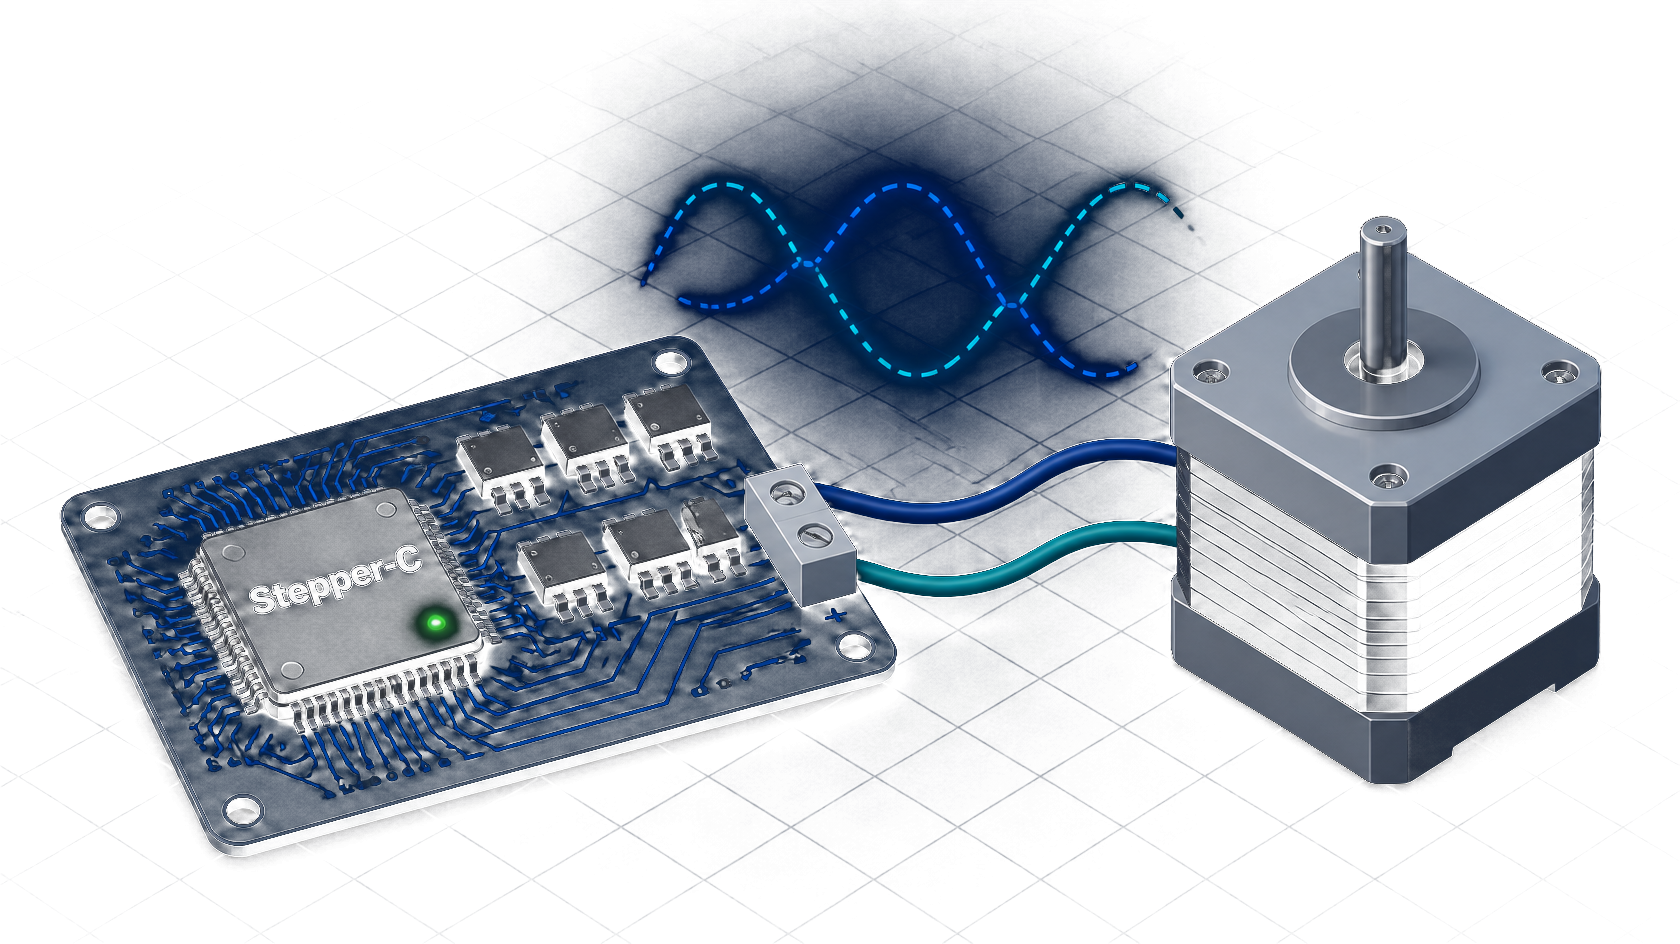
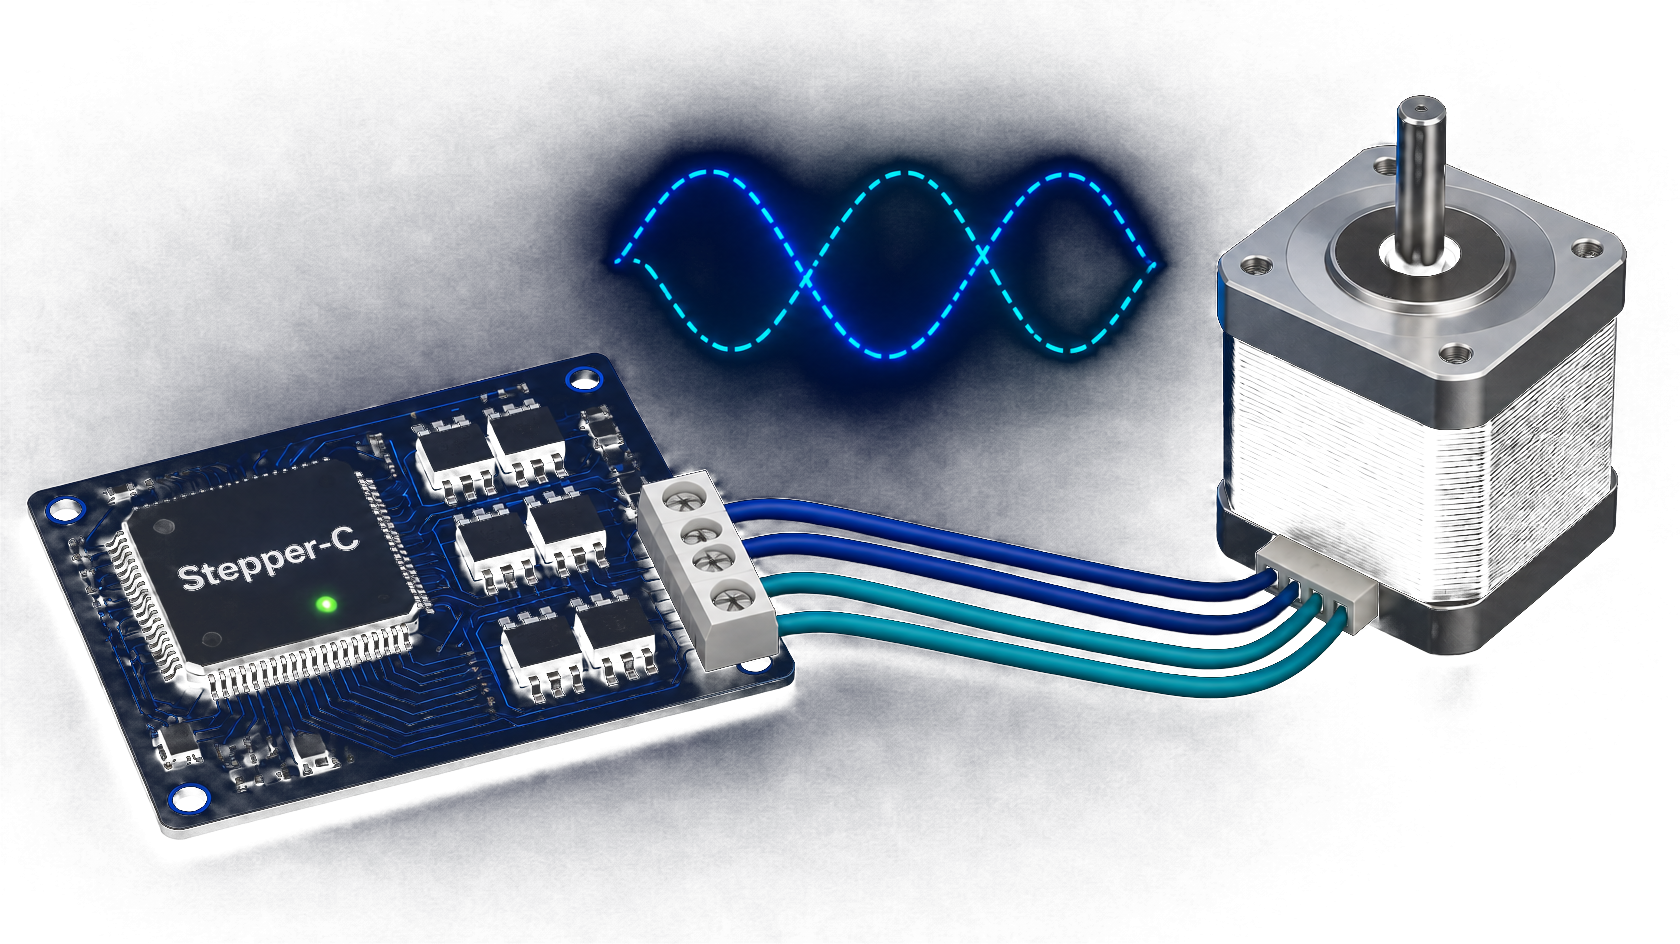
Align the project with the sfs-static-library templates
Rename the CMake presets from "[<Type>]Stepper Motor Control" to
"SSTEP[<Type>]" and update the CI workflows, VS Code tasks, README,
guide and agent skill to match. Rename the SSTEP_UNIT_TESTS option to
UNIT_TESTS and SSTEP_COMPILE_DEFINITIONS/OPTIONS to COMPILE_DEFINITIONS/
OPTIONS; move the version extraction from sstep.cmake to CMakeLists.txt.

CI: the unit test workflow and the release now run every configure
preset with "[UnitTests" in its name, read from CMakePresets.json. The
coverage report is copied out of the bracketed build folder before the
upload, and Cppcheck also gets tests/config when it exists. Doxygen is
no longer installed for the release.

Add VS Code tasks for the float backend coverage report.

Restructure two expressions in sstep_stall.c (atan2 zero vector,
direction sign) without the ternary operator; behaviour is unchanged.

Add tools/docs/hero_alpha.py, which makes the dark background of a
generated hero illustration transparent, and regenerate the hero PNGs
with it.

diff --git a/tools/docs/hero_alpha.py b/tools/docs/hero_alpha.py
@@ -1,0 +1,94 @@
+#******************************************************************************
+# Stepper-C: Stepper Motor Control Implementation
+#
+# Project:     Stepper-C - Hardware-Agnostic Stepper Motor Control Library
+# Description: Make the dark background of a raster hero illustration transparent,
+#              so that it blends into the landing page and the PDF cover.
+#
+# Author:      Anton Vynohradov
+# Email:       avynohradov@systemfromscratch.com
+#
+# License:     Apache License 2.0
+#
+# Copyright (c) 2026 Anton Vynohradov
+#
+# SPDX-License-Identifier: Apache-2.0
+#*****************************************************************************
+
+"""Turn the background of a dark hero illustration (a generated render, for example from
+Canva) into transparency.
+
+A generated image has its own near-black background. On the landing page and on the PDF
+cover it sits on a navy gradient with a blue radial glow, so its rectangle shows. This
+script keeps every pixel that differs from the background colour (the board, the device,
+the glowing signal) and fades the rest to transparent:
+
+    alpha = smoothstep(low, high, max(|R - Rb|, |G - Gb|, |B - Bb|))
+
+The background colour (Rb, Gb, Bb) is the median of the four corners unless given.
+Very dark parts of the subject become slightly transparent too; that is invisible on the
+dark backgrounds the image is made for. Only Pillow is needed (a WeasyPrint dependency).
+
+    python tools/docs/hero_alpha.py hero.jpg docs/assets/images/hero-dark.png
+    python tools/docs/hero_alpha.py hero.jpg out.png --low 4 --high 48 --preview check.png
+"""
+
+from __future__ import annotations
+
+import argparse
+import statistics
+import sys
+
+from PIL import Image, ImageChops
+
+
+def smoothstep_lut(low: int, high: int) -> list:
+    """Lookup table 0..255 -> 0..255 of smoothstep(low, high, x)."""
+    lut = []
+    for x in range(256):
+        t = min(max((x - low) / float(high - low), 0.0), 1.0)
+        lut.append(round(255 * t * t * (3 - 2 * t)))
+    return lut
+
+
+def corner_colour(im: Image.Image) -> tuple:
+    """Median colour of the four corner pixels."""
+    w, h = im.size
+    corners = [im.getpixel(p) for p in ((0, 0), (w - 1, 0), (0, h - 1), (w - 1, h - 1))]
+    return tuple(int(statistics.median(c[k] for c in corners)) for k in range(3))
+
+
+def main() -> int:
+    ap = argparse.ArgumentParser(description=__doc__.split("\n\n")[0])
+    ap.add_argument("source", help="dark illustration (JPG or PNG)")
+    ap.add_argument("output", help="PNG with a transparent background")
+    ap.add_argument("--background", help="background colour as R,G,B (default: corners)")
+    ap.add_argument("--low", type=int, default=4, help="difference that stays transparent")
+    ap.add_argument("--high", type=int, default=48, help="difference that is fully opaque")
+    ap.add_argument("--preview", help="also write the result over a lighter navy, to check")
+    args = ap.parse_args()
+    if not 0 <= args.low < args.high <= 255:
+        ap.error("need 0 <= low < high <= 255")
+
+    im = Image.open(args.source).convert("RGB")
+    bg = (tuple(int(v) for v in args.background.split(",")) if args.background
+          else corner_colour(im))
+    diff = ImageChops.difference(im, Image.new("RGB", im.size, bg))
+    r, g, b = diff.split()
+    alpha = ImageChops.lighter(ImageChops.lighter(r, g), b).point(
+        smoothstep_lut(args.low, args.high))
+    out = im.copy()
+    out.putalpha(alpha)
+    out.save(args.output, optimize=True)
+    print(f"wrote {args.output} ({im.size[0]}x{im.size[1]}, background {bg})")
+
+    if args.preview:
+        check = Image.new("RGBA", im.size, (14, 40, 80, 255))
+        check.alpha_composite(out)
+        check.convert("RGB").save(args.preview)
+        print(f"wrote {args.preview}")
+    return 0
+
+
+if __name__ == "__main__":
+    sys.exit(main())

diff --git a/src/sstep_stall.c b/src/sstep_stall.c
@@ -109,8 +109,12 @@ static sstep_angle_t atan2_turn(int32_t y, int32_t x)
     int32_t ys = y;
     int32_t pw = 1; /* 2^i */
     sstep_angle_t a = 0U;
-    uint32_t steps = ((x == 0) && (y == 0)) ? 0U : CORDIC_STEPS;
+    uint32_t steps = CORDIC_STEPS;
 
+    if ((x == 0) && (y == 0))
+    {
+        steps = 0U; /* the zero vector: angle 0 */
+    }
     if (xs < 0)
     {
         /* rotate by half a turn into the right half plane */
@@ -256,8 +260,11 @@ void sstep_stall_status(const struct sstep_ctx* m, struct sstep_status* status)
         int64_t ed = (int64_t)emf_mv(m, 0U);
         int64_t eq = (int64_t)emf_mv(m, 1U);
         /* direction of the command, or of the back-EMF at rest */
-        bool fwd = (m->vel_cmd > 0) || ((m->vel_cmd == 0) && (eq >= 0));
-        int64_t s = fwd ? 1 : -1;
+        int64_t s = 1;
+        if ((m->vel_cmd < 0) || ((m->vel_cmd == 0) && (eq < 0)))
+        {
+            s = -1;
+        }
         int64_t sq = (ed * ed) + (eq * eq);
         uint64_t mag = sstep_isqrt64((uint64_t)sq);
         /* speed = |e| / Ke [microsteps/s] = |e| Ns M / (2 pi Ke) */

diff --git a/tools/docs/diagrams.py b/tools/docs/diagrams.py
@@ -13,7 +13,7 @@
 # SPDX-License-Identifier: Apache-2.0
 #*****************************************************************************
 
-"""Documentation diagrams of Stepper-C, built with svgkit (sfs-protocol-library skill).
+"""Documentation diagrams of Stepper-C, built with svgkit (sfs-static-library skill).
 Preview every diagram (headless Chrome --screenshot) and check its labels against the
 code after a change. Curves (trajectory, voltage regions) are computed from the same
 equations as the library."""

diff --git a/.agents/skills/stepper-c/SKILL.md b/.agents/skills/stepper-c/SKILL.md
@@ -103,10 +103,10 @@ communication, application logic. They belong to the firmware that uses it.
 ## Tests (definition of done)
 
 ```sh
-cmake --preset "[Debug]Stepper Motor Control" && cmake --build "build/[Debug]Stepper Motor Control"
-cmake --preset "[UnitTests]Stepper Motor Control" && cmake --build "build/[UnitTests]Stepper Motor Control" --target coverage
-cmake --preset "[UnitTestsFloat]Stepper Motor Control" && cmake --build "build/[UnitTestsFloat]Stepper Motor Control" --target coverage
-cmake --build "build/[Debug]Stepper Motor Control" --target misra-analyze
+cmake --preset "SSTEP[Debug]" && cmake --build "build/SSTEP[Debug]"
+cmake --preset "SSTEP[UnitTests]" && cmake --build "build/SSTEP[UnitTests]" --target coverage
+cmake --preset "SSTEP[UnitTestsFloat]" && cmake --build "build/SSTEP[UnitTestsFloat]" --target coverage
+cmake --build "build/SSTEP[Debug]" --target misra-analyze
 python tools/docs/check_snippets.py
 python tools/sstep_gen_sin_table.py --check
 ```
@@ -169,12 +169,21 @@ English and written for embedded engineers integrating the library.
   `tools/docs/snippet_include/` (FreeRTOS stubs); API prototypes must match the
   headers exactly. Add a board stub when a snippet needs a new function.
 - `mkdocs build` must print no WARNING.
-- The documentation tooling is the shared base of the `sfs-protocol-library` skill.
-  Keep `overrides/`, `svgkit.py`, `check_snippets.py`, `stack_usage.py` and the
-  stylesheet as in its templates and change project data only (`mkdocs.yml`,
-  `diagrams.py`, `snippets.json`). `build_manual.py` and `manual.css` differ from
-  the templates by the formula rendering (arithmatex + ziamath); keep that part
-  when syncing them.
+- The repository follows the `sfs-static-library` skill (Stepper-C is its reference
+  implementation). Its generic files (`overrides/`, the stylesheet and KaTeX script,
+  the brand logos, every file of `tools/docs/` except `diagrams.py`, `snippets.json`
+  and `snippet_stubs.h`, `.github/workflows/`, `cmake/unit_tests.cmake`,
+  `cmake/misra_check.cmake`, `.clang-format`, `cppcheck-excludes.txt`,
+  `.vscode/extensions.json`) stay identical to its templates; change project data only.
+  Check before a release, and update after a template change:
+
+  ```sh
+  python ~/.claude/skills/sfs-static-library/assets/scaffold.py --check --dest . \
+      --lib sstep --project Stepper-C --domain "Stepper Motor Control"   # --sync to update
+  ```
+
+  The workflows run every preset with `[UnitTests` in its name (`SSTEP[UnitTests]`,
+  `SSTEP[UnitTestsFloat]`), read from `CMakePresets.json`.
 - Brand: SystemFromScratch® exactly like that; do not name the trademark owner;
   STM32 is a trademark of STMicroelectronics.
 

diff --git a/README.md b/README.md
@@ -109,19 +109,19 @@ Cppcheck for the MISRA check, Python 3 for the documentation.
 
 | Preset | Purpose |
 | --- | --- |
-| `[Debug]Stepper Motor Control` | Static library with debug information |
-| `[Release]Stepper Motor Control` | Optimized static library |
-| `[UnitTests]Stepper Motor Control` | Unit and closed-loop tests, fixed point, coverage gate |
-| `[UnitTestsFloat]Stepper Motor Control` | The same tests with the float backend |
+| `SSTEP[Debug]` | Static library with debug information |
+| `SSTEP[Release]` | Optimized static library |
+| `SSTEP[UnitTests]` | Unit and closed-loop tests, fixed point, coverage gate |
+| `SSTEP[UnitTestsFloat]` | The same tests with the float backend |
 
 ```bash
-cmake --preset "[Release]Stepper Motor Control"
-cmake --build "build/[Release]Stepper Motor Control"
+cmake --preset "SSTEP[Release]"
+cmake --build "build/SSTEP[Release]"
 
-cmake --preset "[UnitTests]Stepper Motor Control"
-cmake --build "build/[UnitTests]Stepper Motor Control" --target coverage
+cmake --preset "SSTEP[UnitTests]"
+cmake --build "build/SSTEP[UnitTests]" --target coverage
 
-cmake --build "build/[Debug]Stepper Motor Control" --target misra-analyze
+cmake --build "build/SSTEP[Debug]" --target misra-analyze
 ```
 
 **In your CMake project:**
@@ -139,7 +139,7 @@ include path.
 | --- | --- | --- |
 | `SSTEP_MATH_BACKEND` | `FIXED` | Numeric backend: `FIXED` or `FLOAT` |
 | `SSTEP_CONFIG_DIR` | empty | Folder with `sstep_user_config.h` (build-time options) |
-| `SSTEP_UNIT_TESTS` | `OFF` | GoogleTest suite and `coverage` target |
+| `UNIT_TESTS` | `OFF` | GoogleTest suite and `coverage` target |
 
 ## Project structure
 

diff --git a/docs/guide.md b/docs/guide.md
@@ -36,10 +36,10 @@ include path.
 
 | Preset | Purpose |
 | --- | --- |
-| `[Debug]Stepper Motor Control` | Static library with debug information |
-| `[Release]Stepper Motor Control` | Optimized static library |
-| `[UnitTests]Stepper Motor Control` | GoogleTest suite, fixed-point backend, with coverage; target `coverage` |
-| `[UnitTestsFloat]Stepper Motor Control` | The same suite with the float backend |
+| `SSTEP[Debug]` | Static library with debug information |
+| `SSTEP[Release]` | Optimized static library |
+| `SSTEP[UnitTests]` | GoogleTest suite, fixed-point backend, with coverage; target `coverage` |
+| `SSTEP[UnitTestsFloat]` | The same suite with the float backend |
 
 ## Unit tests and coverage
 

diff --git a/docs/configuration.md b/docs/configuration.md
@@ -163,7 +163,7 @@ python ../tools/docs/stack_usage.py . --markdown
 | --- | --- | --- |
 | `SSTEP_MATH_BACKEND` | `FIXED` | Numeric backend: `FIXED` or `FLOAT` |
 | `SSTEP_CONFIG_DIR` | empty | Folder with `sstep_user_config.h` |
-| `SSTEP_UNIT_TESTS` | `OFF` | GoogleTest suite and `coverage` target |
+| `UNIT_TESTS` | `OFF` | GoogleTest suite and `coverage` target |
 | `SSTEP_COVERAGE_MIN` | `100` | Coverage gate (lines and branches, %) |
 | `SSTEP_MISRA_FAIL_ON_VIOLATION` | `ON` | `misra-analyze` fails on any violation |
 | `SSTEP_MISRA_RULE_TEXTS` | empty | Licensed MISRA rule texts for readable reports |
